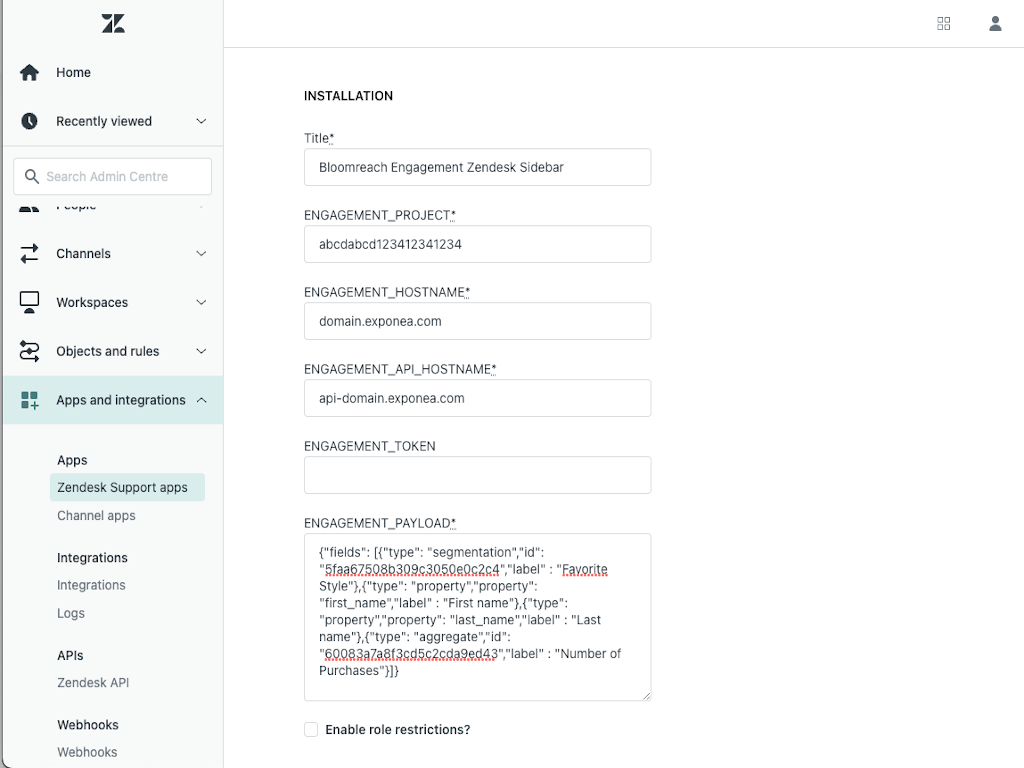
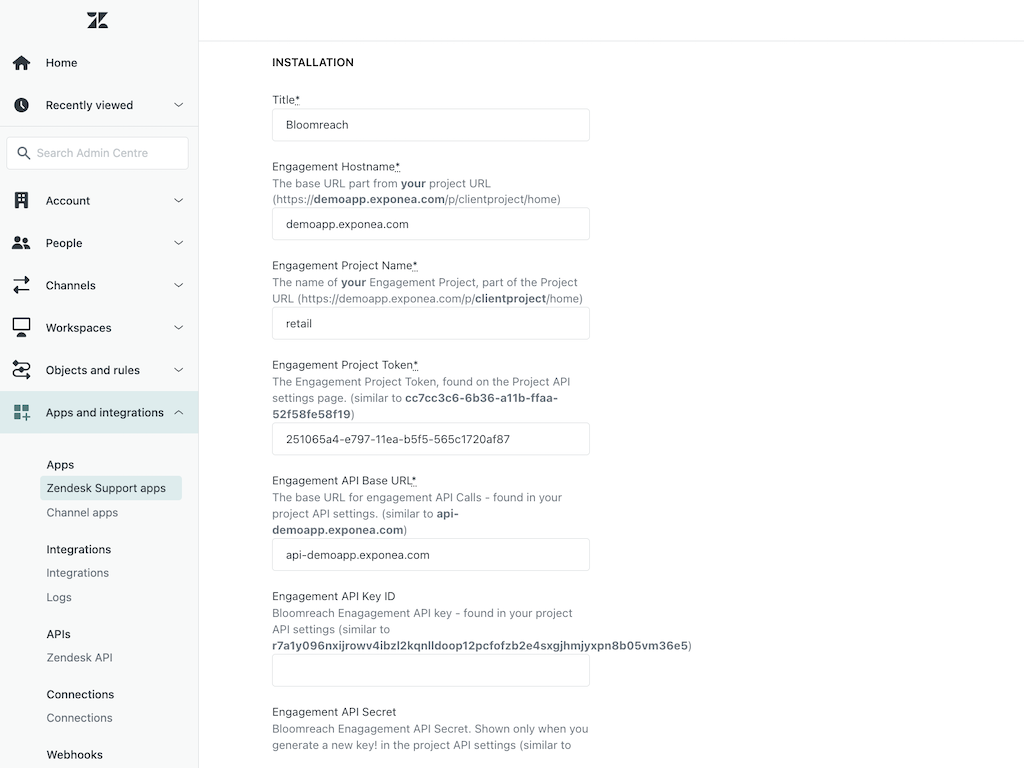
Update docs, eliminate need to calculate the token.

diff --git a/assets/iframe.html b/assets/iframe.html
@@ -56,11 +56,10 @@
           payload.customer_ids[settings.ENGAGEMENT_IDENTIFIER || 'registered']=requestor_email;
 
           if (settings.ENGAGEMENT_MANAGED_API_URL) {
+            let url = `${settings.ENGAGEMENT_MANAGED_API_URL}`;
+            url = url.replace('://','://{{ setting.ENGAGEMENT_KEY}}:{{ setting.ENGAGEMENT_SECRET }}@');
             req = {
-              url: `${settings.ENGAGEMENT_MANAGED_API_URL}`,
-              headers: {
-                Authorization: `Basic {{ setting.ENGAGEMENT_TOKEN }}`,
-              },
+              url: url,
               contentType: "application/json",
               type: "POST",
               secure: true,
@@ -77,10 +76,7 @@
 
               req = 
                 {
-                  url: `https://${settings.ENGAGEMENT_API_HOSTNAME}/data/v2/projects/${settings.ENGAGEMENT_PROJECT}/customers/attributes`,
-                  headers: {
-                    Authorization: `Basic {{ settings.ENGAGEMENT_TOKEN }}`,
-                  },
+                  url: `https://{{ setting.ENGAGEMENT_KEY}}:{{ setting.ENGAGEMENT_SECRET }}@${settings.ENGAGEMENT_API_HOSTNAME}/data/v2/projects/${settings.ENGAGEMENT_PROJECT}/customers/attributes`,
                   contentType: "application/json",
                   type: "POST",
                   secure: true,

diff --git a/README.md b/README.md
@@ -27,7 +27,7 @@ Or anything which can be accessed via the Bloomreach Engagement Customer API.
 1) Input your engagement project id - this can be found in the project settings > project_token area of your Engagement project.
 2) Input your engagement hostname. This is the domain of your Engagement admin interface - e.g. demo_project.exponea.com  
 3) Input your engagement API hostname. This is available at project settings > api Base URL.
-4) In Engagement, generate an API keypair for a private group with read-only access to Managed Endpoint API and all the data fields you are interested in. Turn these into a base 64 encoded token. An easy way to achieve this is to start JS console in browser and run: ```btoa('<key_name>:<key_secret>');``` - put this value into the Engagement_token field
+4) In Engagement, generate an API keypair for a private group with read-only access to Managed Endpoint API and all the data fields you are interested in.
 5) The final thing to do is to configure the fields you would like to display. You have 2 options here:
 6) Use Managed Endpoint API - configured in [BR Engagement UI](https://documentation.bloomreach.com/engagement/reference/managed-endpoints-api). Make sure the API group configured has access to Managed Endpoint API. Don't forget to enable the Managed Endpoint API and use the URL provided for this endpoint into Engagement Managed Endpoint API URL field. The Managed API payload can be fully custom and looks like this:
 ```
